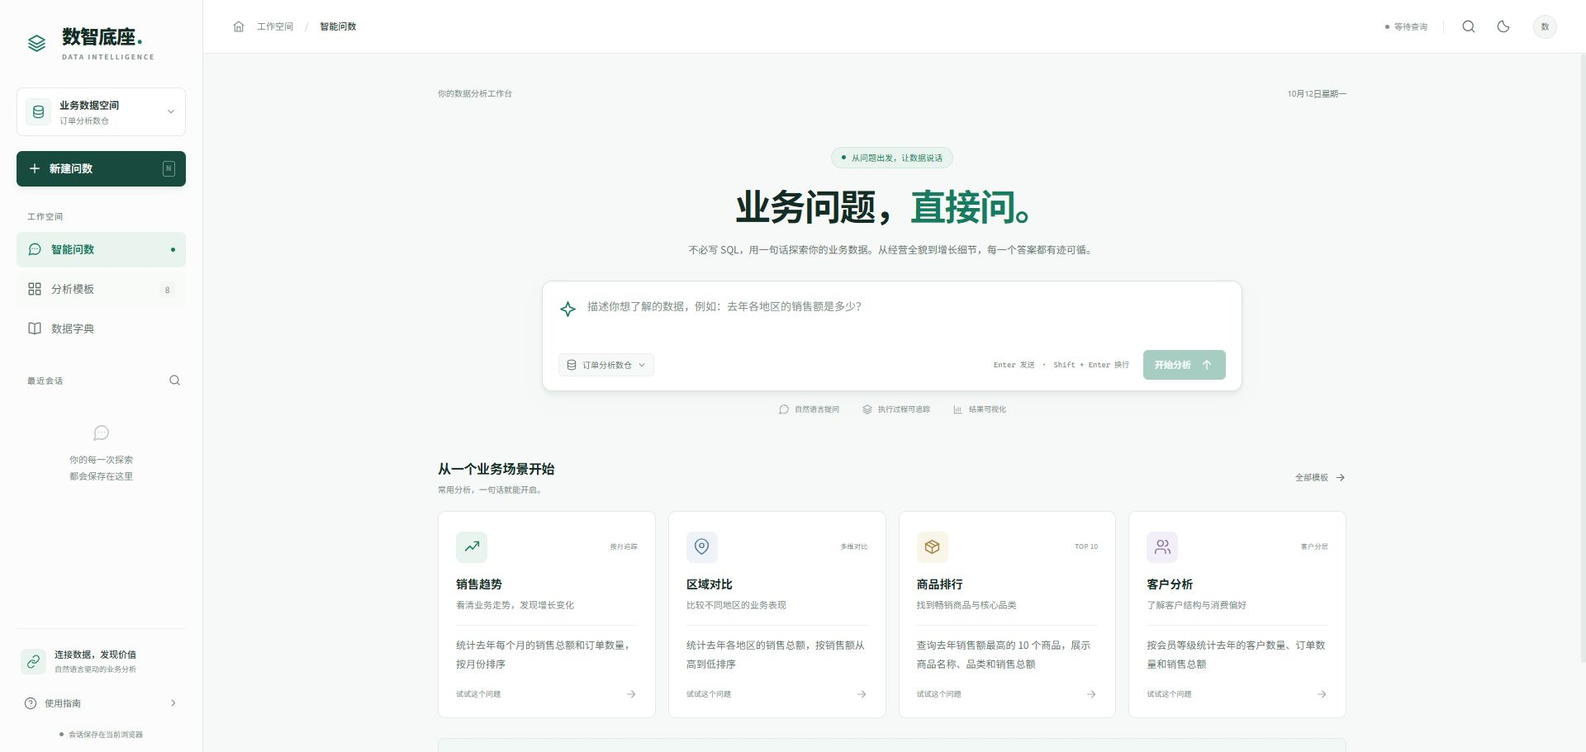
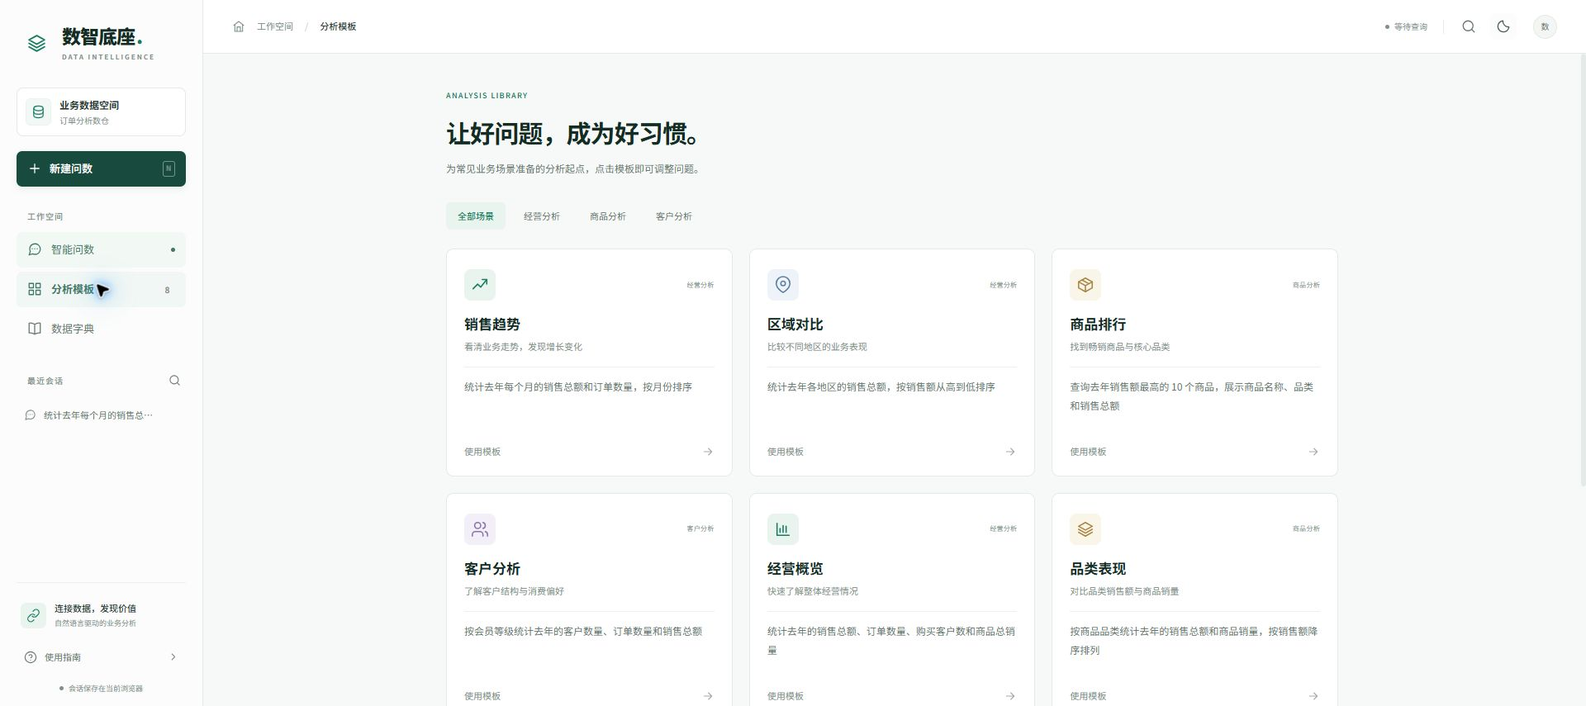
fix: make current data source labels read-only

diff --git a/src/style.css b/src/style.css
@@ -43,13 +43,11 @@ code, kbd { font-family: 'Cascadia Code', Consolas, monospace; }
 .brand strong { display: block; color: var(--heading); font-size: 23px; letter-spacing: -1px; font-weight: 800; line-height: 1.3; }
 .brand-dot { color: var(--primary); margin-left: 2px; }
 .brand small { display: block; margin-top: 4px; font-size: 8px; letter-spacing: 2px; font-weight: 600; color: var(--muted); }
-.workspace-selector { border: 1px solid var(--border); background: var(--surface); display: flex; align-items: center; gap: 10px; padding: 10px; border-radius: 8px; margin-bottom: 18px; text-align: left; }
-.workspace-selector:hover { border-color: var(--primary); }
+.workspace-summary { border: 1px solid var(--border); background: var(--surface); color: var(--text); display: flex; align-items: center; gap: 10px; padding: 10px; border-radius: 8px; margin-bottom: 18px; text-align: left; }
 .workspace-icon { width: 31px; height: 33px; display: grid; place-items: center; background: var(--primary-tint); border: 1px solid var(--border-soft); border-radius: 6px; color: var(--primary); }
-.workspace-selector > span:nth-child(2) { flex: 1; }
-.workspace-selector strong { font-size: 12px; font-weight: 600; display: block; }
-.workspace-selector small { font-size: 10px; color: var(--muted); display: block; margin-top: 2px; }
-.workspace-selector > svg { color: var(--muted); }
+.workspace-summary > span:nth-child(2) { flex: 1; }
+.workspace-summary strong { font-size: 12px; font-weight: 600; display: block; }
+.workspace-summary small { font-size: 10px; color: var(--muted); display: block; margin-top: 2px; }
 .new-query-button { background: var(--primary-dark); color: var(--surface); display: flex; align-items: center; gap: 9px; border-radius: 7px; height: 43px; padding: 0 13px; margin-bottom: 28px; font-size: 13px; font-weight: 500; box-shadow: 0 3px 8px #184b3e14; }
 .new-query-button:hover { background: var(--primary); }
 .new-query-symbol { margin-left: auto; font: 10px Consolas, monospace; border: 1px solid currentColor; opacity: .4; border-radius: 3px; padding: 0 4px; line-height: 17px; }
@@ -119,8 +117,7 @@ code, kbd { font-family: 'Cascadia Code', Consolas, monospace; }
 .query-composer textarea { width: 100%; resize: none; min-height: 53px; max-height: 160px; border: 0; outline: none; background: transparent; line-height: 1.8; font-size: 13px; padding: 0; }
 .query-composer textarea:focus-visible { outline: none; }
 .composer-bottom { display: flex; justify-content: space-between; align-items: center; gap: 10px; margin-top: 12px; }
-.dataset-chip { display: inline-flex; gap: 6px; align-items: center; padding: 5px 8px; border: 1px solid var(--border-soft); border-radius: 5px; color: var(--secondary); background: var(--bg); font-size: 10px; white-space: nowrap; }
-.dataset-chip:hover { border-color: var(--primary); color: var(--primary); }
+.dataset-label { display: inline-flex; gap: 6px; align-items: center; color: var(--secondary); font-size: 10px; white-space: nowrap; }
 .composer-actions { display: flex; align-items: center; gap: 17px; }
 .keyboard-hint { color: var(--muted); font-size: 9px; display: flex; gap: 5px; align-items: center; }
 .keyboard-hint kbd { font-size: 9px; }
@@ -370,5 +367,5 @@ code, kbd { font-family: 'Cascadia Code', Consolas, monospace; }
 @media (min-width: 1600px) { .welcome-page { padding-top: 40px; } .welcome-hero { margin-top: 55px; } .scenario-section { margin-top: 52px; } .scenario-card { padding: 24px 21px 20px; } .scenario-question { font-size: 12px; } .scenario-card > p { font-size: 11px; } }
 @media (max-width: 1180px) { .sidebar { width: 225px; padding-left: 16px; padding-right: 16px; } .welcome-page, .secondary-container { padding-left: 30px; padding-right: 30px; } .scenario-grid { grid-template-columns: repeat(2, minmax(0, 1fr)); } .scenario-card { padding: 19px; } .scenario-question { font-size: 11px; margin-bottom: 14px; } .scenario-card > p { font-size: 10px; } .template-grid { grid-template-columns: repeat(2, minmax(0, 1fr)); } .hero-description { max-width: 530px; margin: auto; } .keyboard-hint { display: none; } .dictionary-layout { grid-template-columns: 180px minmax(0, 1fr); gap: 16px; } .dictionary-details { padding: 20px; } .conversation-page { padding-left: 30px; padding-right: 30px; } .conversation-composer { padding-left: 30px; padding-right: 30px; } }
 @media (max-width: 860px) { .sidebar { position: fixed; top: 0; bottom: 0; left: 0; width: 260px; transform: translateX(-100%); transition: transform .2s; } .sidebar.is-open { transform: translateX(0); } .sidebar-backdrop { display: block; position: fixed; inset: 0; background: #13261e66; z-index: 35; } .mobile-menu { display: inline-flex; } .topbar { padding: 0 22px; } .breadcrumb { gap: 11px; } .breadcrumb-home { display: none; } .welcome-page { max-width: 750px; } .template-grid { gap: 15px; } .welcome-hero h1 { font-size: 37px; } .welcome-hero { margin-top: 35px; } .hero-description { font-size: 12px; } .scenario-card h3 { font-size: 16px; } .scenario-card > p { font-size: 11px; } .scenario-tag { font-size: 9px; } .scenario-card-bottom { font-size: 10px; } .history-delete { opacity: 1; } }
-@media (max-width: 580px) { body { min-width: 360px; } .topbar { height: 58px; padding: 0 14px; } .breadcrumb-parent, .breadcrumb-divider, .breadcrumb-home { display: none; } .breadcrumb { gap: 7px; font-size: 12px; } .topbar-actions { gap: 3px; } .topbar-separator { margin-left: 6px; margin-right: 2px; } .topbar-avatar { margin-left: 5px; } .connection-status { font-size: 9px; } .welcome-page { padding: 22px 20px; } .page-eyebrow { font-size: 9px; } .today-label { font-size: 9px; } .welcome-hero { margin-top: 30px; } .welcome-hero h1 { font-size: 32px; letter-spacing: -1px; } .hero-description { font-size: 11px; line-height: 2; } .mobile-line-break { display: block; } .query-composer { padding: 15px 13px 11px; margin-top: 23px; border-radius: 10px; } .composer-input-row { gap: 9px; } .composer-spark svg { width: 20px; } .query-composer textarea { min-height: 70px; font-size: 12px; } .composer-actions { gap: 6px; } .send-button { padding: 8px 11px; font-size: 10px; gap: 5px; } .dataset-chip { font-size: 9px; padding: 5px 6px; gap: 5px; } .hero-capabilities { gap: 13px; font-size: 8px; } .hero-capabilities > span { gap: 4px; } .hero-capabilities svg { width: 12px; } .scenario-section { margin-top: 32px; } .section-heading { margin-bottom: 14px; } .section-heading h2 { font-size: 15px; } .section-heading p { font-size: 9px; } .scenario-grid { gap: 11px; } .scenario-card { padding: 16px 13px 13px; } .scenario-card h3 { font-size: 14px; } .scenario-card > p { font-size: 10px; } .scenario-card-top { margin-bottom: 12px; } .scenario-icon { width: 33px; height: 33px; } .scenario-tag { font-size: 8px; } .scenario-question { font-size: 10px; margin-top: 12px; padding-top: 10px; } .scenario-card-bottom { font-size: 9px; } .knowledge-strip { padding: 16px; gap: 11px; margin-top: 20px; flex-wrap: wrap; } .knowledge-strip > div { flex: 1; } .knowledge-strip h3 { font-size: 11px; } .knowledge-strip p { font-size: 9px; } .knowledge-strip .text-button { margin-left: 52px; margin-top: -4px; font-size: 10px; } .welcome-footer { font-size: 8px; gap: 5px; } .secondary-container { padding: 30px 20px; } .secondary-heading h1 { font-size: 25px; } .secondary-heading > p { font-size: 11px; } .category-tabs { gap: 2px; margin-top: 25px; } .category-tabs button { padding: 7px 10px; font-size: 10px; } .template-grid { grid-template-columns: 1fr; } .template-card { padding: 20px; } .template-card h3 { font-size: 16px; } .template-card > p { font-size: 11px; } .template-card .scenario-question { font-size: 12px; min-height: 0; } .dictionary-layout { grid-template-columns: minmax(0, 1fr); } .dictionary-index { display: flex; gap: 5px; flex-wrap: wrap; } .dictionary-search { width: 100%; margin-bottom: 3px; } .dictionary-index > button { width: auto; flex: 1 1 100px; padding: 8px; gap: 7px; } .dictionary-index > button > svg:last-child { display: none; } .dictionary-index code { display: none; } .dictionary-details { padding: 18px 14px; } .dictionary-table-heading h2 { font-size: 15px; } .dictionary-fields th, .dictionary-fields td { padding: 11px 10px; font-size: 10px; } .dictionary-notice { font-size: 10px; padding: 12px; } .conversation-page { padding: 24px 16px 10px; } .conversation-heading { padding-bottom: 17px; margin-bottom: 24px; } .conversation-heading h1 { font-size: 16px; } .user-question > p { font-size: 11px; padding: 10px 12px; } .response-body { margin-left: 0; } .conversation-composer { padding: 11px 14px 8px; } .conversation-composer > div > p { font-size: 8px; } .assistant-heading { margin-bottom: 14px; } .step-count { font-size: 8px; } .execution-toggle { padding: 10px 12px; } .running-label { max-width: 100px; font-size: 8px; } .execution-toggle > span { gap: 6px; } .result-heading { padding: 12px; } .result-title { gap: 6px; } .result-title h3 { font-size: 11px; } .result-count { font-size: 8px; margin-left: 0; } .export-button { font-size: 9px; gap: 4px; } .result-toolbar { padding: 0 12px 12px; flex-wrap: wrap; gap: 9px; } .result-search { flex: 1; max-width: 100%; min-width: 100px; } .segmented-control button { padding: 5px 8px; font-size: 9px; } .table-footer { padding: 10px 12px; flex-wrap: wrap; font-size: 8px; } .field-count { display: none; } .pagination { margin-left: auto; gap: 5px; } .pagination select { margin-right: 2px; font-size: 8px; } .chart-panel { padding: 12px; } .chart-selects { gap: 10px; } .chart-selects select { max-width: 110px; } .workspace-dialog { padding: 22px; } .guide-dialog h2 { font-size: 23px; } .search-dialog { padding: 17px; } }
+@media (max-width: 580px) { body { min-width: 360px; } .topbar { height: 58px; padding: 0 14px; } .breadcrumb-parent, .breadcrumb-divider, .breadcrumb-home { display: none; } .breadcrumb { gap: 7px; font-size: 12px; } .topbar-actions { gap: 3px; } .topbar-separator { margin-left: 6px; margin-right: 2px; } .topbar-avatar { margin-left: 5px; } .connection-status { font-size: 9px; } .welcome-page { padding: 22px 20px; } .page-eyebrow { font-size: 9px; } .today-label { font-size: 9px; } .welcome-hero { margin-top: 30px; } .welcome-hero h1 { font-size: 32px; letter-spacing: -1px; } .hero-description { font-size: 11px; line-height: 2; } .mobile-line-break { display: block; } .query-composer { padding: 15px 13px 11px; margin-top: 23px; border-radius: 10px; } .composer-input-row { gap: 9px; } .composer-spark svg { width: 20px; } .query-composer textarea { min-height: 70px; font-size: 12px; } .composer-actions { gap: 6px; } .send-button { padding: 8px 11px; font-size: 10px; gap: 5px; } .dataset-label { font-size: 9px; gap: 5px; } .hero-capabilities { gap: 13px; font-size: 8px; } .hero-capabilities > span { gap: 4px; } .hero-capabilities svg { width: 12px; } .scenario-section { margin-top: 32px; } .section-heading { margin-bottom: 14px; } .section-heading h2 { font-size: 15px; } .section-heading p { font-size: 9px; } .scenario-grid { gap: 11px; } .scenario-card { padding: 16px 13px 13px; } .scenario-card h3 { font-size: 14px; } .scenario-card > p { font-size: 10px; } .scenario-card-top { margin-bottom: 12px; } .scenario-icon { width: 33px; height: 33px; } .scenario-tag { font-size: 8px; } .scenario-question { font-size: 10px; margin-top: 12px; padding-top: 10px; } .scenario-card-bottom { font-size: 9px; } .knowledge-strip { padding: 16px; gap: 11px; margin-top: 20px; flex-wrap: wrap; } .knowledge-strip > div { flex: 1; } .knowledge-strip h3 { font-size: 11px; } .knowledge-strip p { font-size: 9px; } .knowledge-strip .text-button { margin-left: 52px; margin-top: -4px; font-size: 10px; } .welcome-footer { font-size: 8px; gap: 5px; } .secondary-container { padding: 30px 20px; } .secondary-heading h1 { font-size: 25px; } .secondary-heading > p { font-size: 11px; } .category-tabs { gap: 2px; margin-top: 25px; } .category-tabs button { padding: 7px 10px; font-size: 10px; } .template-grid { grid-template-columns: 1fr; } .template-card { padding: 20px; } .template-card h3 { font-size: 16px; } .template-card > p { font-size: 11px; } .template-card .scenario-question { font-size: 12px; min-height: 0; } .dictionary-layout { grid-template-columns: minmax(0, 1fr); } .dictionary-index { display: flex; gap: 5px; flex-wrap: wrap; } .dictionary-search { width: 100%; margin-bottom: 3px; } .dictionary-index > button { width: auto; flex: 1 1 100px; padding: 8px; gap: 7px; } .dictionary-index > button > svg:last-child { display: none; } .dictionary-index code { display: none; } .dictionary-details { padding: 18px 14px; } .dictionary-table-heading h2 { font-size: 15px; } .dictionary-fields th, .dictionary-fields td { padding: 11px 10px; font-size: 10px; } .dictionary-notice { font-size: 10px; padding: 12px; } .conversation-page { padding: 24px 16px 10px; } .conversation-heading { padding-bottom: 17px; margin-bottom: 24px; } .conversation-heading h1 { font-size: 16px; } .user-question > p { font-size: 11px; padding: 10px 12px; } .response-body { margin-left: 0; } .conversation-composer { padding: 11px 14px 8px; } .conversation-composer > div > p { font-size: 8px; } .assistant-heading { margin-bottom: 14px; } .step-count { font-size: 8px; } .execution-toggle { padding: 10px 12px; } .running-label { max-width: 100px; font-size: 8px; } .execution-toggle > span { gap: 6px; } .result-heading { padding: 12px; } .result-title { gap: 6px; } .result-title h3 { font-size: 11px; } .result-count { font-size: 8px; margin-left: 0; } .export-button { font-size: 9px; gap: 4px; } .result-toolbar { padding: 0 12px 12px; flex-wrap: wrap; gap: 9px; } .result-search { flex: 1; max-width: 100%; min-width: 100px; } .segmented-control button { padding: 5px 8px; font-size: 9px; } .table-footer { padding: 10px 12px; flex-wrap: wrap; font-size: 8px; } .field-count { display: none; } .pagination { margin-left: auto; gap: 5px; } .pagination select { margin-right: 2px; font-size: 8px; } .chart-panel { padding: 12px; } .chart-selects { gap: 10px; } .chart-selects select { max-width: 110px; } .workspace-dialog { padding: 22px; } .guide-dialog h2 { font-size: 23px; } .search-dialog { padding: 17px; } }
 @media (prefers-reduced-motion: reduce) { *, *::before, *::after { animation-duration: .01ms !important; animation-iteration-count: 1 !important; transition-duration: .01ms !important; } .scenario-card:hover { transform: none; } }

diff --git a/src/App.vue b/src/App.vue
@@ -129,7 +129,7 @@ onBeforeUnmount(() => document.removeEventListener('keydown', onKeydown))
     <button v-if="sidebarOpen" class="sidebar-backdrop" aria-label="关闭导航菜单" @click="sidebarOpen = false" />
     <aside class="sidebar" :class="{ 'is-open': sidebarOpen }" aria-label="工作空间导航">
       <button class="brand" @click="navigate('chat')" aria-label="数智底座首页"><span class="brand-mark"><AppIcon name="layers" :size="25" /></span><span><strong>数智底座<span class="brand-dot">.</span></strong><small>DATA INTELLIGENCE</small></span></button>
-      <button class="workspace-selector" @click="navigate('dictionary')"><span class="workspace-icon"><AppIcon name="database" :size="17" /></span><span><strong>业务数据空间</strong><small>订单分析数仓</small></span><AppIcon name="down" :size="14" /></button>
+      <div class="workspace-summary" title="当前数据源：订单分析数仓"><span class="workspace-icon"><AppIcon name="database" :size="17" /></span><span><strong>业务数据空间</strong><small>订单分析数仓</small></span></div>
       <button class="new-query-button" @click="startNew"><AppIcon name="plus" :size="18" /><span>新建问数</span><span class="new-query-symbol">N</span></button>
       <div class="nav-section-label">工作空间</div>
       <nav class="main-nav"><button v-for="item in navItems" :key="item.id" :class="{ active: view === item.id }" :aria-current="view === item.id ? 'page' : undefined" @click="navigate(item.id)"><AppIcon :name="item.icon" :size="18" /><span>{{ item.label }}</span><span v-if="item.id === 'chat'" class="nav-active-dot" /><span v-if="item.id === 'templates'" class="nav-badge">{{ scenarios.length }}</span></button></nav>
@@ -144,7 +144,7 @@ onBeforeUnmount(() => document.removeEventListener('keydown', onKeydown))
         <template v-if="view === 'chat' && !activeSession">
           <div class="welcome-page">
             <div class="page-eyebrow"><span>你的数据分析工作台</span><span class="today-label">{{ todayLabel }}</span></div>
-            <section class="welcome-hero"><div class="hero-kicker"><span class="tiny-dot" />从问题出发，让数据说话</div><h1>业务问题，<span>直接问。</span></h1><p class="hero-description">不必写 SQL，用一句话探索你的业务数据。<br class="mobile-line-break" />从经营全貌到增长细节，每一个答案都有迹可循。</p><QueryComposer ref="composer" v-model="question" :loading="loading" @send="submitQuestion()" @stop="stopQuery" @dictionary="navigate('dictionary')" /><div class="hero-capabilities"><span><AppIcon name="chat" :size="14" />自然语言提问</span><span><AppIcon name="layers" :size="14" />执行过程可追踪</span><span><AppIcon name="chart" :size="14" />结果可视化</span></div></section>
+            <section class="welcome-hero"><div class="hero-kicker"><span class="tiny-dot" />从问题出发，让数据说话</div><h1>业务问题，<span>直接问。</span></h1><p class="hero-description">不必写 SQL，用一句话探索你的业务数据。<br class="mobile-line-break" />从经营全貌到增长细节，每一个答案都有迹可循。</p><QueryComposer ref="composer" v-model="question" :loading="loading" @send="submitQuestion()" @stop="stopQuery" /><div class="hero-capabilities"><span><AppIcon name="chat" :size="14" />自然语言提问</span><span><AppIcon name="layers" :size="14" />执行过程可追踪</span><span><AppIcon name="chart" :size="14" />结果可视化</span></div></section>
             <section class="scenario-section"><div class="section-heading"><div><h2>从一个业务场景开始</h2><p>常用分析，一句话就能开启。</p></div><button class="text-button" @click="navigate('templates')">全部模板<AppIcon name="arrow" :size="15" /></button></div><div class="scenario-grid"><button v-for="scenario in scenarios.slice(0, 4)" :key="scenario.id" class="scenario-card" :class="scenario.color" @click="useTemplate(scenario.question)"><div class="scenario-card-top"><span class="scenario-icon"><AppIcon :name="scenario.icon" :size="21" /></span><span class="scenario-tag">{{ scenario.tag }}</span></div><h3>{{ scenario.title }}</h3><p>{{ scenario.description }}</p><div class="scenario-question">{{ scenario.question }}</div><span class="scenario-card-bottom">试试这个问题<AppIcon name="arrow" :size="16" /></span></button></div></section>
             <section class="knowledge-strip"><span class="knowledge-strip-icon"><AppIcon name="database" :size="24" /></span><div><h3>理解业务语言，连接真实数据</h3><p>围绕订单、地区、商品、客户与时间，探索多维业务洞察。</p></div><button class="text-button" @click="navigate('dictionary')">查看数据字典<AppIcon name="chevron" :size="14" /></button></section>
             <footer class="welcome-footer"><span>数智底座</span><span class="footer-dot">·</span>让每一次提问，走向有依据的决策</footer>
@@ -160,7 +160,7 @@ onBeforeUnmount(() => document.removeEventListener('keydown', onKeydown))
           <div class="secondary-container dictionary-page"><div class="secondary-heading"><span class="page-kicker">BUSINESS CONTEXT</span><h1>先懂业务，再问数据。</h1><p>了解可查询的业务范围，让每个问题都更准确。</p></div><div class="dictionary-notice"><AppIcon name="book" :size="18" /><span>当前展示后端元数据配置的参考字典，包含 <strong>1 张事实表、4 张维度表</strong>。实际查询以数据库及知识库状态为准。</span></div><div class="dictionary-layout"><div class="dictionary-index"><label class="dictionary-search"><AppIcon name="search" :size="16" /><input v-model="dictionarySearch" placeholder="搜索表或字段" aria-label="搜索数据字典" /></label><button v-for="table in filteredTables" :key="table.name" :class="{ active: selectedTable === table.name }" @click="selectedTable = table.name"><AppIcon :name="table.icon" :size="18" /><span><strong>{{ table.label }}</strong><code>{{ table.name }}</code></span><AppIcon name="chevron" :size="14" /></button><p v-if="!filteredTables.length" class="dictionary-no-results">未找到匹配的表或字段</p></div><section class="dictionary-details"><div class="dictionary-table-heading"><span class="scenario-icon teal"><AppIcon :name="currentTable.icon" :size="22" /></span><div><h2>{{ currentTable.label }}<span class="type-badge">{{ currentTable.type }}</span></h2><code>{{ currentTable.name }}</code></div></div><p class="dictionary-description">{{ currentTable.description }}</p><div class="dictionary-fields-scroll"><table class="dictionary-fields"><thead><tr><th>字段名称</th><th>业务说明 / 常用别名</th><th>字段角色</th></tr></thead><tbody><tr v-for="field in currentTable.fields" :key="field.name"><td><code>{{ field.name }}</code></td><td>{{ field.label }}</td><td><span class="field-role" :class="{ measure: field.role === '度量' }">{{ field.role }}</span></td></tr></tbody></table></div><div class="dictionary-tip"><AppIcon name="spark" :size="17" /><p>直接使用「销售额」「地区」「品类」等业务词汇提问，系统会匹配对应字段与真实取值。</p></div></section></div></div>
         </template>
       </div>
-      <div v-if="view === 'chat' && activeSession" class="conversation-composer"><div><QueryComposer ref="composer" v-model="question" :loading="loading" compact @send="submitQuestion()" @stop="stopQuery" @dictionary="navigate('dictionary')" /><p>每次查询请包含完整的时间、指标与筛选条件。</p></div></div>
+      <div v-if="view === 'chat' && activeSession" class="conversation-composer"><div><QueryComposer ref="composer" v-model="question" :loading="loading" compact @send="submitQuestion()" @stop="stopQuery" /><p>每次查询请包含完整的时间、指标与筛选条件。</p></div></div>
     </main>
     <Transition name="toast"><div v-if="notice" class="toast-message" role="status"><AppIcon name="check" :size="17" />{{ notice }}</div></Transition>
     <dialog ref="guideDialog" class="workspace-dialog guide-dialog" aria-labelledby="guide-title" @click="closeBackdrop"><div class="dialog-heading"><span class="dialog-icon"><AppIcon name="spark" :size="23" /></span><button class="icon-button" @click="guideDialog.close()" aria-label="关闭使用指南"><AppIcon name="close" /></button></div><span class="page-kicker">QUICK START</span><h2 id="guide-title">从一个好问题开始。</h2><p class="dialog-description">把业务需求说清楚，数智助手会完成检索、查询和结果展示。</p><ol class="guide-steps"><li><span>01</span><div><strong>说清时间、指标和维度</strong><p>例如「统计去年各地区的销售总额，按金额降序排列」。</p></div></li><li><span>02</span><div><strong>查看真实执行进度</strong><p>展开执行过程，查看字段、指标、取值召回，以及 SQL 生成、校验与执行状态。</p></div></li><li><span>03</span><div><strong>把结果变成业务洞察</strong><p>搜索和排序数据、切换图表，或导出 CSV 继续分析。</p></div></li></ol><div class="guide-note">每次提问独立执行，请提供完整条件。停止接收会关闭前端数据流，后端任务是否终止取决于服务实现。会话与结果保存在当前浏览器，历史结果最多保存 500 行。</div><button class="primary-button guide-start" @click="guideDialog.close(); startNew()">开始我的第一次探索<AppIcon name="arrow" :size="17" /></button></dialog>

diff --git a/src/components/QueryComposer.vue b/src/components/QueryComposer.vue
@@ -3,7 +3,7 @@ import { computed, nextTick, ref, watch } from 'vue'
 import AppIcon from './AppIcon.vue'
 
 const props = defineProps({ modelValue: String, loading: Boolean, compact: Boolean })
-const emit = defineEmits(['update:modelValue', 'send', 'stop', 'dictionary'])
+const emit = defineEmits(['update:modelValue', 'send', 'stop'])
 const textarea = ref(null)
 const canSend = computed(() => Boolean(props.modelValue?.trim()) && !props.loading)
 
@@ -30,7 +30,7 @@ defineExpose({ focus: () => textarea.value?.focus() })
       <textarea ref="textarea" :value="modelValue" @input="emit('update:modelValue', $event.target.value)" @keydown="onKeydown" :rows="compact ? 1 : 2" aria-label="输入你的数据问题" :placeholder="compact ? '继续提出一个完整的数据问题…' : '描述你想了解的数据，例如：去年各地区的销售额是多少？'" :disabled="loading" />
     </div>
     <div class="composer-bottom">
-      <button type="button" class="dataset-chip" @click="emit('dictionary')" title="查看当前数据集的字段说明"><AppIcon name="database" :size="14" /> 订单分析数仓 <AppIcon name="down" :size="12" /></button>
+      <span class="dataset-label" title="当前数据源：订单分析数仓"><AppIcon name="database" :size="14" /> 订单分析数仓</span>
       <div class="composer-actions">
         <span class="keyboard-hint"><kbd>Enter</kbd> 发送 <span>·</span> <kbd>Shift + Enter</kbd> 换行</span>
         <button v-if="loading" type="button" class="send-button stop-button" @click="emit('stop')"><AppIcon name="stop" :size="15" /><span>停止接收</span></button>

diff --git a/README.md b/README.md
@@ -68,6 +68,8 @@ npm run preview
 
 场景模板和参考字典来自后端 `conf/meta_config.yaml`。字典为前端配置参考，实际查询以数据库和知识库状态为准；模板、首页及图表不会伪造业务查询结果。
 
+当前仅对接订单分析数仓，侧栏和输入区的数据源名称为只读标识。查看表和字段说明时，使用侧栏「数据字典」或首页「查看数据字典」入口。
+
 每次问数独立发送完整问题，当前后端不接收历史聊天上下文，也不返回 SQL 文本。关闭前端数据流不代表后端任务一定已终止。
 
 会话、收藏和主题保存在当前浏览器。最多保留 30 个会话，每个会话持久化最近 20 次查询、每次查询前 500 行结果；当前查询页面可以查看和导出接口返回的完整结果。历史数据被截取时会显示提示，可重新查询获取完整结果。
